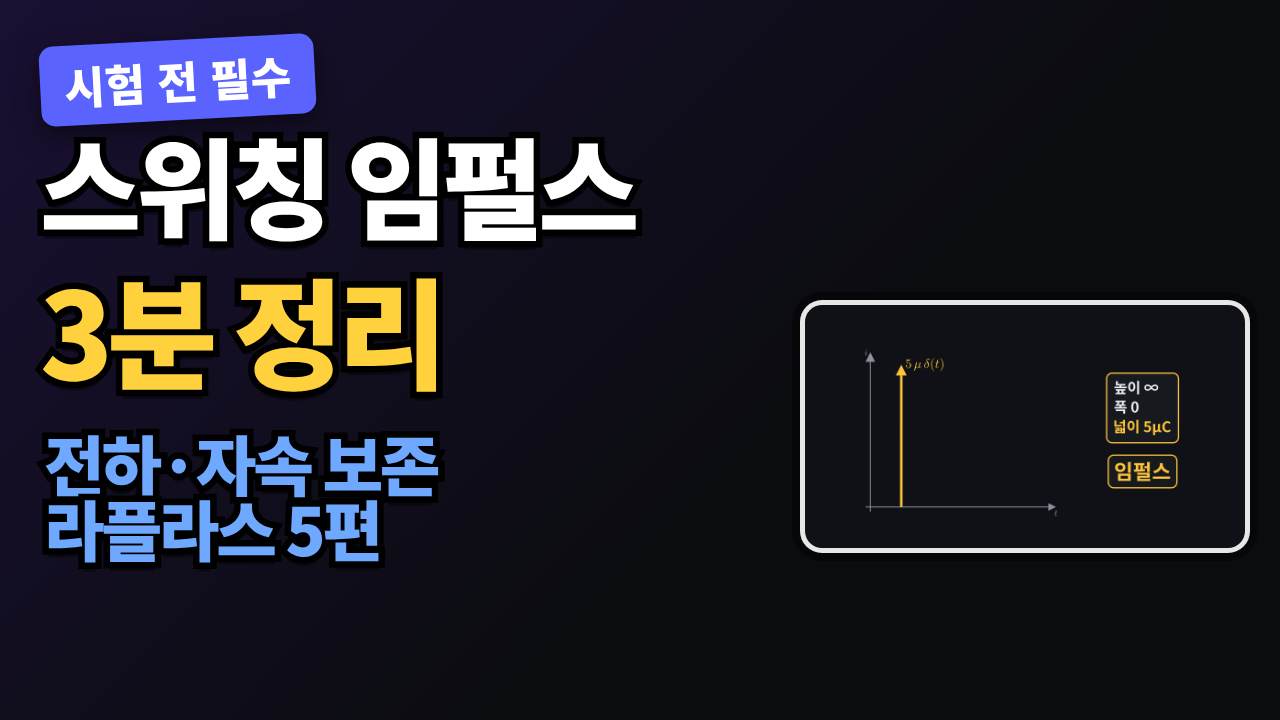
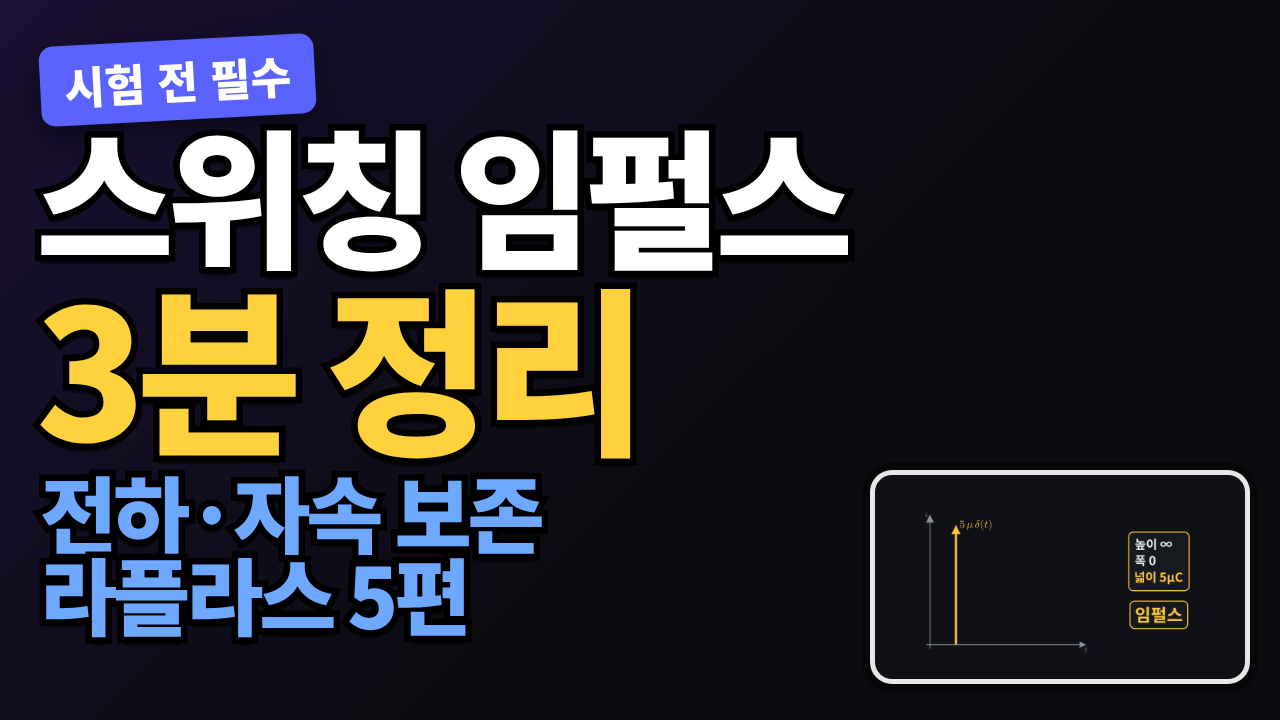
라플라스 5편 썸네일 V2 글씨 키움
Claude-Session: https://claude.ai/code/session_01HiQj88EVej8qa6rHVbiumr

Changed region(s): [[0.0, 0.1528, 0.6875, 0.9167], [0.625, 0.3972, 1.0, 0.9472]]

diff --git a/youtube/lap5/thumbnail/thumbs.html b/youtube/lap5/thumbnail/thumbs.html
@@ -18,10 +18,10 @@ body{background:#000;font-family:'Noto Sans CJK KR',sans-serif}
 #V1 .c{left:40px;top:450px;font-size:72px;color:#3ddc97}
 #V1 .badge{left:40px;top:40px}
 #V2{background:linear-gradient(135deg,#1a1033,#0b0c10 60%)}
-#V2 .img{right:30px;top:300px;width:450px;height:253px;background-image:url(g_k4.png)}
-#V2 .a{left:40px;top:130px;font-size:110px;color:#fff}
-#V2 .b{left:40px;top:270px;font-size:120px;color:#ffd23d}
-#V2 .c{left:44px;top:430px;font-size:66px;color:#6ea8ff}
+#V2 .img{right:30px;top:470px;width:380px;height:214px;background-image:url(g_k4.png)}
+#V2 .a{left:36px;top:118px;font-size:150px;color:#fff}
+#V2 .b{left:36px;top:275px;font-size:180px;color:#ffd23d}
+#V2 .c{left:40px;top:470px;font-size:84px;color:#6ea8ff}
 #V2 .badge{left:40px;top:40px;background:#5b63ff}
 #V2 .person{right:-50px;height:300px}
 .r{width:1080px;height:1920px;position:relative;overflow:hidden;margin-bottom:10px;background:#0d0f14}
